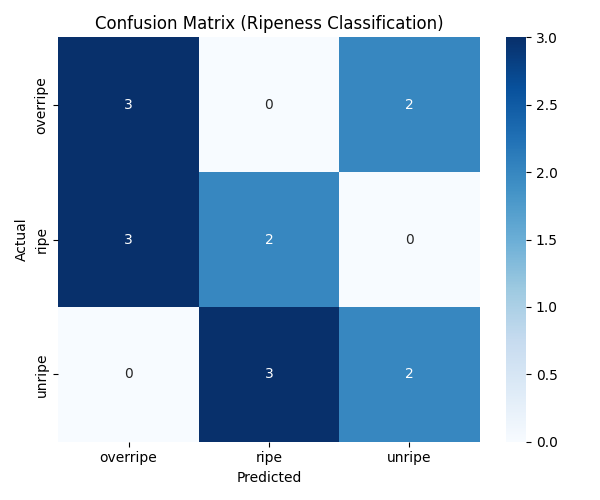
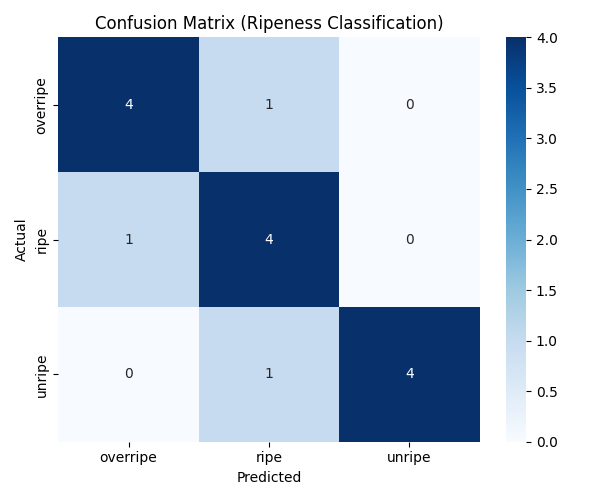
made edits to code and images

diff --git a/fruit_ripeness.py b/fruit_ripeness.py
@@ -2,34 +2,30 @@ import os
 import cv2
 import numpy as np
 
-# Use a non-GUI backend
 import matplotlib
 matplotlib.use("Agg")
 import matplotlib.pyplot as plt
 
 from skimage.metrics import structural_similarity
 from sklearn.metrics import confusion_matrix
+from sklearn.preprocessing import StandardScaler
+from sklearn.neighbors import KNeighborsClassifier
 import seaborn as sns
 
 
-
-# -----------------------------------------------------------
-# 1. PREPROCESSING
-# -----------------------------------------------------------
+#processes the images correctly
 def preprocess_image(bgr_img, save_debug=False, label="image"):
     """Resize → Gaussian blur → HSV → CLAHE."""
     os.makedirs("outputs", exist_ok=True)
 
-    # Resize
+    #resize image
     bgr_resized = cv2.resize(bgr_img, (256, 256))
 
-    # Gaussian smoothing
+    #gaussian smoothing
     bgr_gaussian = cv2.GaussianBlur(bgr_resized, (5, 5), 0)
 
-    # HSV conversion
+    #HSV conversion
     hsv_before = cv2.cvtColor(bgr_gaussian, cv2.COLOR_BGR2HSV)
-
-    # CLAHE on V channel
     h, s, v = cv2.split(hsv_before)
     clahe = cv2.createCLAHE(clipLimit=2.0, tileGridSize=(8, 8))
     v_eq = clahe.apply(v)
@@ -39,10 +35,7 @@ def preprocess_image(bgr_img, save_debug=False, label="image"):
     return bgr_resized, hsv_before, hsv_after, bgr_preprocessed
 
 
-
-# -----------------------------------------------------------
-# 2. GAUSSIAN PYRAMID + TEXTURE FEATURES
-# -----------------------------------------------------------
+#Gaussian Pyramid
 def gaussian_pyramid(img, levels=4):
     pyr = [img]
     temp = img.copy()
@@ -66,38 +59,66 @@ def laplacian_sharpness(img):
     return lap.var()
 
 
-
-# -----------------------------------------------------------
-# 3. FEATURE EXTRACTION
-# -----------------------------------------------------------
+#Extracts the hsv features from the fruit
 def extract_hsv_features(hsv_img):
+    """
+    Color features:
+      - mean / std of H, S, V
+      - percentage of pixels in 3 hue ranges:
+        * greenish
+        * yellowish
+        * brownish
+    Uses a mask to ignore low-saturation / low-value background.
+    """
     h, s, v = cv2.split(hsv_img)
+
+    #focus the mask of the fruit on the image
+    mask = (s > 40) & (v > 40)
+    if np.sum(mask) < 50:
+        h_valid = h.flatten()
+        s_valid = s.flatten()
+        v_valid = v.flatten()
+    else:
+        h_valid = h[mask]
+        s_valid = s[mask]
+        v_valid = v[mask]
+
+    mean_h = np.mean(h_valid)
+    std_h  = np.std(h_valid)
+    mean_s = np.mean(s_valid)
+    std_s  = np.std(s_valid)
+    mean_v = np.mean(v_valid)
+    std_v  = np.std(v_valid)
+
+    #Hue percentages displayed
+    total_pix = len(h_valid) + 1e-8
+
+    #ranges for the fruit used (banana) set at these values, dpending on the hue and fruit
+    yellow_mask = (h_valid >= 15) & (h_valid <= 35)
+    green_mask  = (h_valid >= 35) & (h_valid <= 85)
+    brown_mask  = (h_valid < 15) | (h_valid > 85)
+
+    frac_yellow = np.sum(yellow_mask) / total_pix
+    frac_green  = np.sum(green_mask) / total_pix
+    frac_brown  = np.sum(brown_mask) / total_pix
+
     return np.array([
-        np.mean(h), np.std(h),
-        np.mean(s), np.std(s),
-        np.mean(v), np.std(v),
+        mean_h, std_h,
+        mean_s, std_s,
+        mean_v, std_v,
+        frac_green, frac_yellow, frac_brown
     ], dtype=np.float32)
 
 
 def extract_texture_features(pyr):
     sharp = [laplacian_sharpness(level) for level in pyr]
-    decay = sharp[0] - sharp[-1]  # how fast texture disappears
+    decay = sharp[0] - sharp[-1]
+    while len(sharp) < 4:
+        sharp.append(0.0)
     return np.array([sharp[0], sharp[1], sharp[2], sharp[3], decay], dtype=np.float32)
 
 
-
-# -----------------------------------------------------------
-# 4. CLASSIFIER
-# -----------------------------------------------------------
-def classify_nearest(feat, all_features, labels):
-    d = np.linalg.norm(all_features - feat, axis=1)
-    return labels[np.argmin(d)]
-
-
-
-# -----------------------------------------------------------
-# 5. CONFUSION MATRIX PLOTTING
-# -----------------------------------------------------------
+#Confusion Matrix displaying correct information
 def save_confusion_matrix(y_true, y_pred, class_names, out_path="outputs/confusion_matrix.png"):
     cm = confusion_matrix(y_true, y_pred, labels=class_names)
 
@@ -113,20 +134,20 @@ def save_confusion_matrix(y_true, y_pred, class_names, out_path="outputs/confusi
     print(f"Saved confusion matrix → {out_path}")
 
 
-
-# -----------------------------------------------------------
-# 6. MAIN PROGRAM — WITH TRAIN/TEST SPLIT
-# -----------------------------------------------------------
+#main function that runs the program
 def main():
     train_root = "dataset"
     test_root = "testset"
 
-    # ------------ TRAINING DATA -------------------
+    #training data
     train_features = []
     train_labels = []
     pyramid_saved = {}
 
-    class_names = sorted(os.listdir(train_root))
+    class_names = sorted([
+        d for d in os.listdir(train_root)
+        if os.path.isdir(os.path.join(train_root, d))
+    ])
 
     print("Training on classes:", class_names)
 
@@ -144,18 +165,16 @@ def main():
             if bgr is None:
                 continue
 
-            # Preprocess
+            #Preprocess image
             _, _, hsv_after, pre = preprocess_image(bgr)
 
-            # Gaussian pyramid
+            #Gaussian pyramid
             pyr = gaussian_pyramid(pre)
-
-            # Save 1 combined pyramid panel PER class
             if label not in pyramid_saved:
                 combine_pyramid_images(pyr, f"outputs/{label}_pyramid_panel.png")
                 pyramid_saved[label] = True
 
-            # Extract features
+            #Extract features from the images like color and texture
             color = extract_hsv_features(hsv_after)
             texture = extract_texture_features(pyr)
             full_feat = np.concatenate([color, texture])
@@ -168,8 +187,14 @@ def main():
 
     print("Training samples loaded:", len(train_labels))
 
+    #scaling the data and fitting the model
+    scaler = StandardScaler()
+    train_features_scaled = scaler.fit_transform(train_features)
 
-    # ------------ TESTING DATA -------------------
+    clf = KNeighborsClassifier(n_neighbors=3)
+    clf.fit(train_features_scaled, train_labels)
+
+    #testing data for making predictions
     y_true = []
     y_pred = []
 
@@ -197,33 +222,32 @@ def main():
             color = extract_hsv_features(hsv_after)
             texture = extract_texture_features(pyr)
             feat = np.concatenate([color, texture])
-
-            pred = classify_nearest(feat, train_features, train_labels)
+            feat_scaled = scaler.transform(feat.reshape(1, -1))
+            pred = clf.predict(feat_scaled)[0]
             y_pred.append(pred)
 
             print(f"{fname}: true={label}, predicted={pred}")
 
-
-    # ------------ METRICS -------------------
+    #set for the accuracy report, what would show in the terminal
     y_true = np.array(y_true)
     y_pred = np.array(y_pred)
 
     overall_acc = np.mean(y_true == y_pred)
-    print("\n==============================")
-    print("     RIPENESS ACCURACY REPORT")
-    print("==============================")
-    print(f"Overall Accuracy: {overall_acc * 100:.2f}%\n")
+    print("\n========RIPENESS ACCURACY REPORT========")
+    print(f"    ====Overall Accuracy: {overall_acc * 100:.2f}%====\n")
 
-    # Per-class accuracy
+    #accuracy set for the classes
     for cls in class_names:
         idx = (y_true == cls)
+        if np.sum(idx) == 0:
+            continue
         cls_acc = np.mean(y_pred[idx] == cls)
         print(f"{cls} accuracy: {cls_acc * 100:.2f}%")
 
-    # Confusion matrix
+    #saves the confusion matrix in our outputs folder
     save_confusion_matrix(y_true, y_pred, class_names)
-
 
 
 if __name__ == "__main__":
     main()
+
